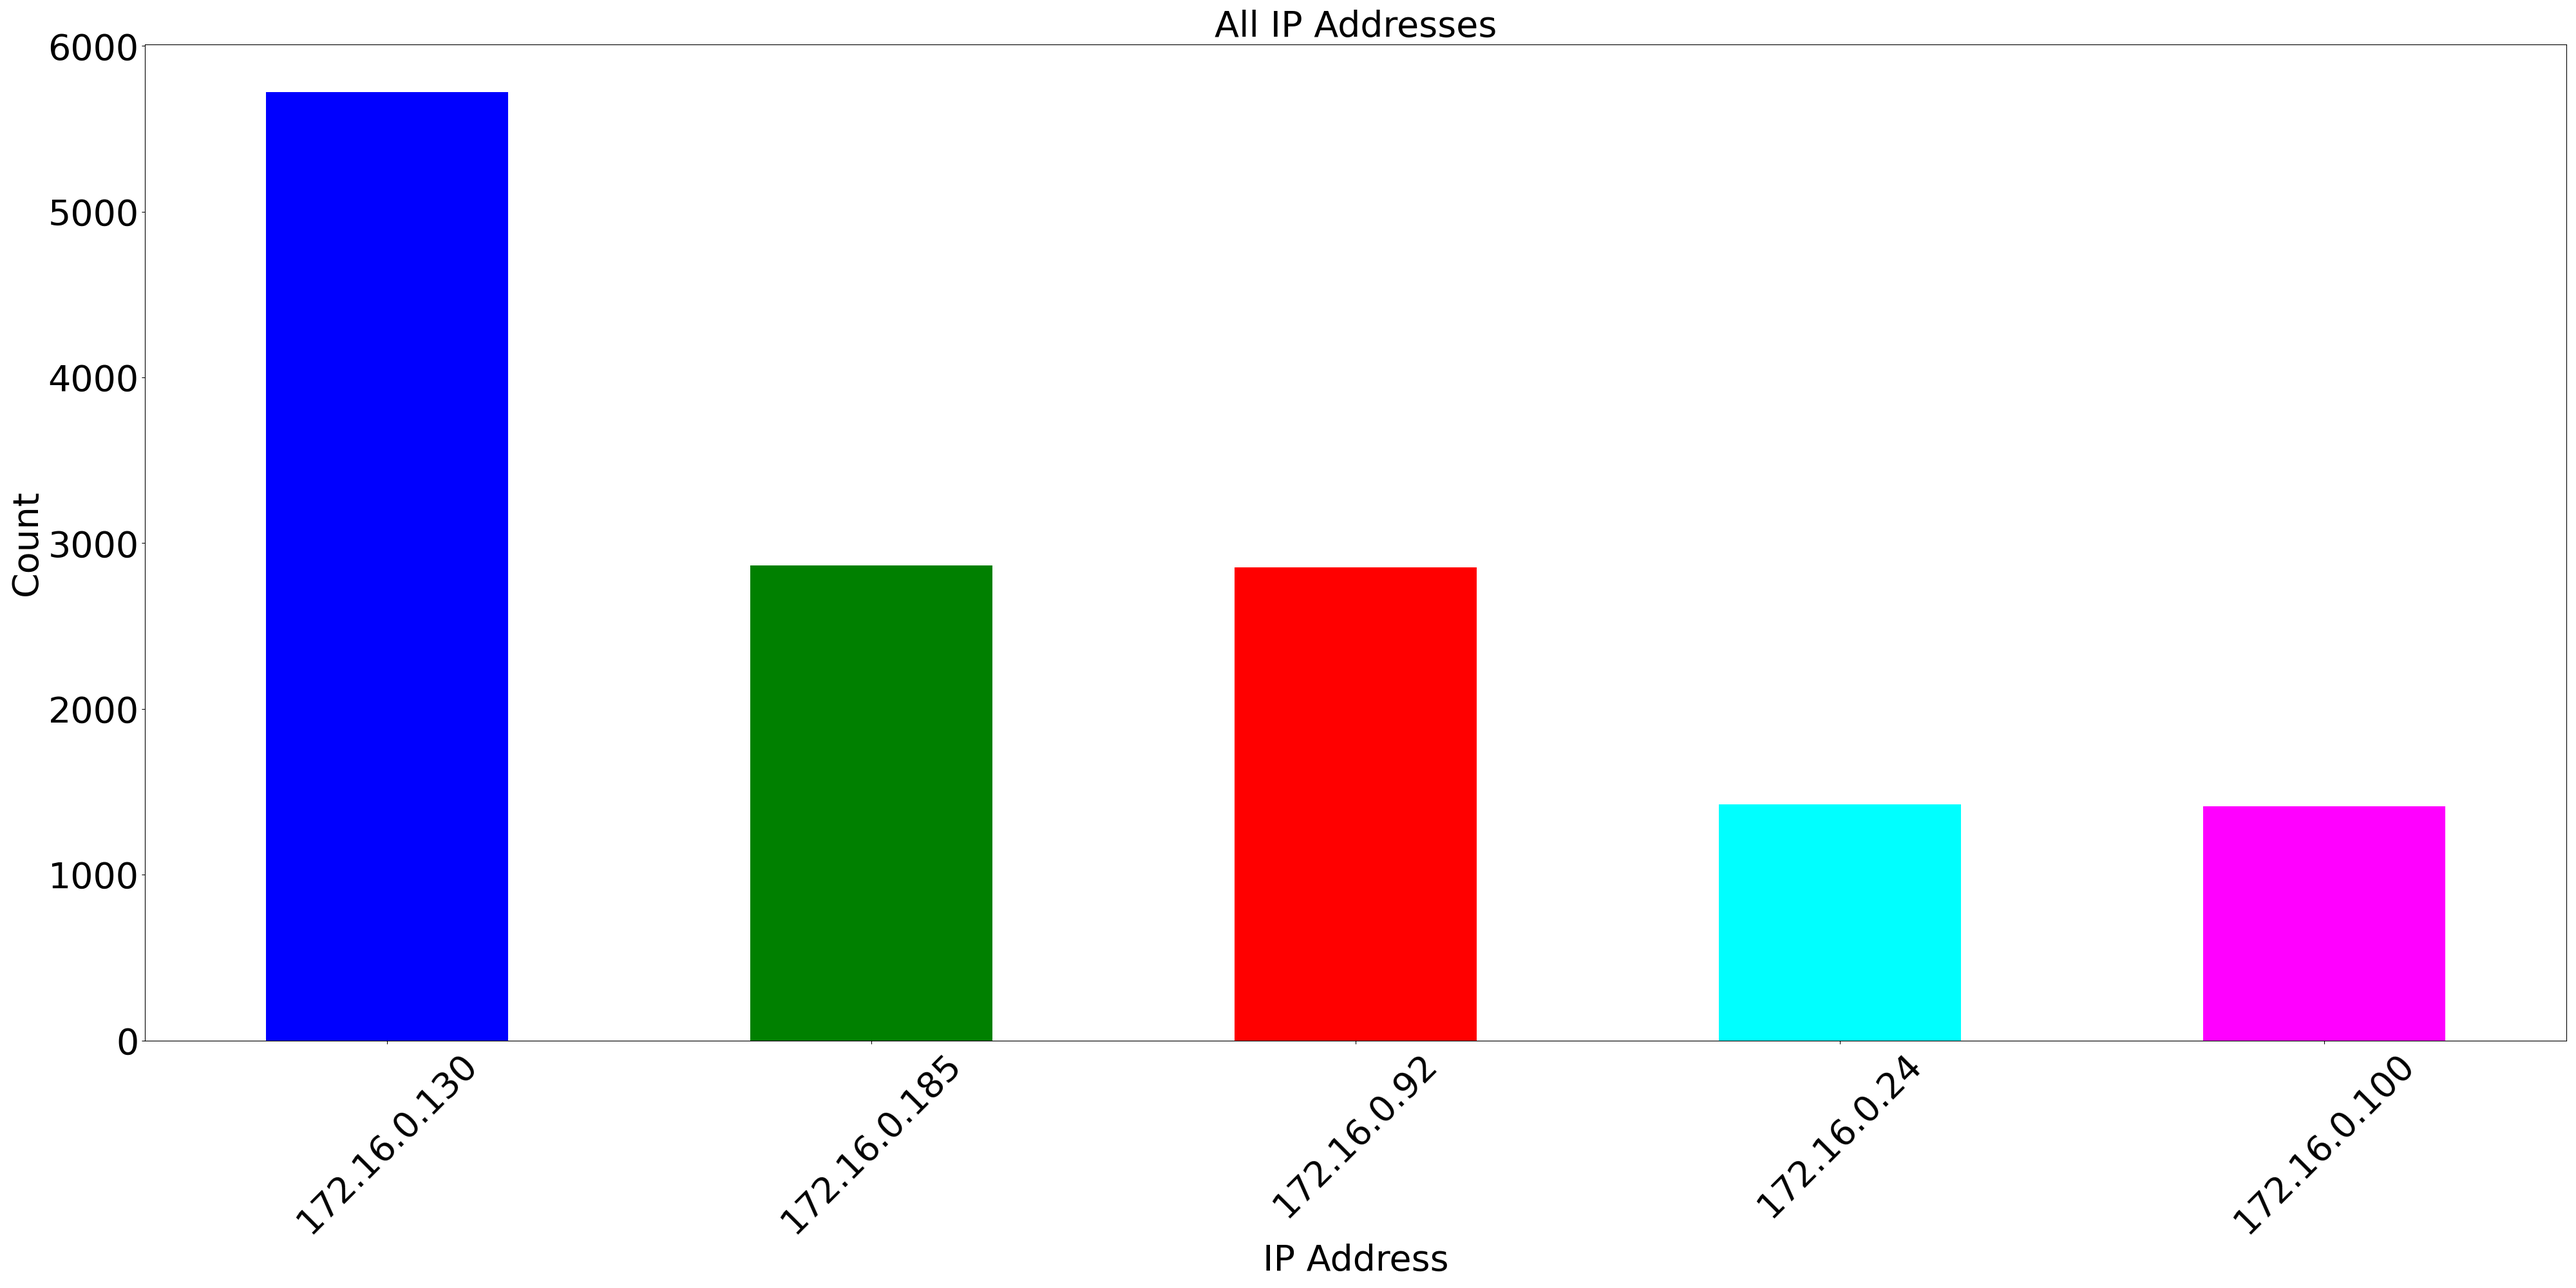
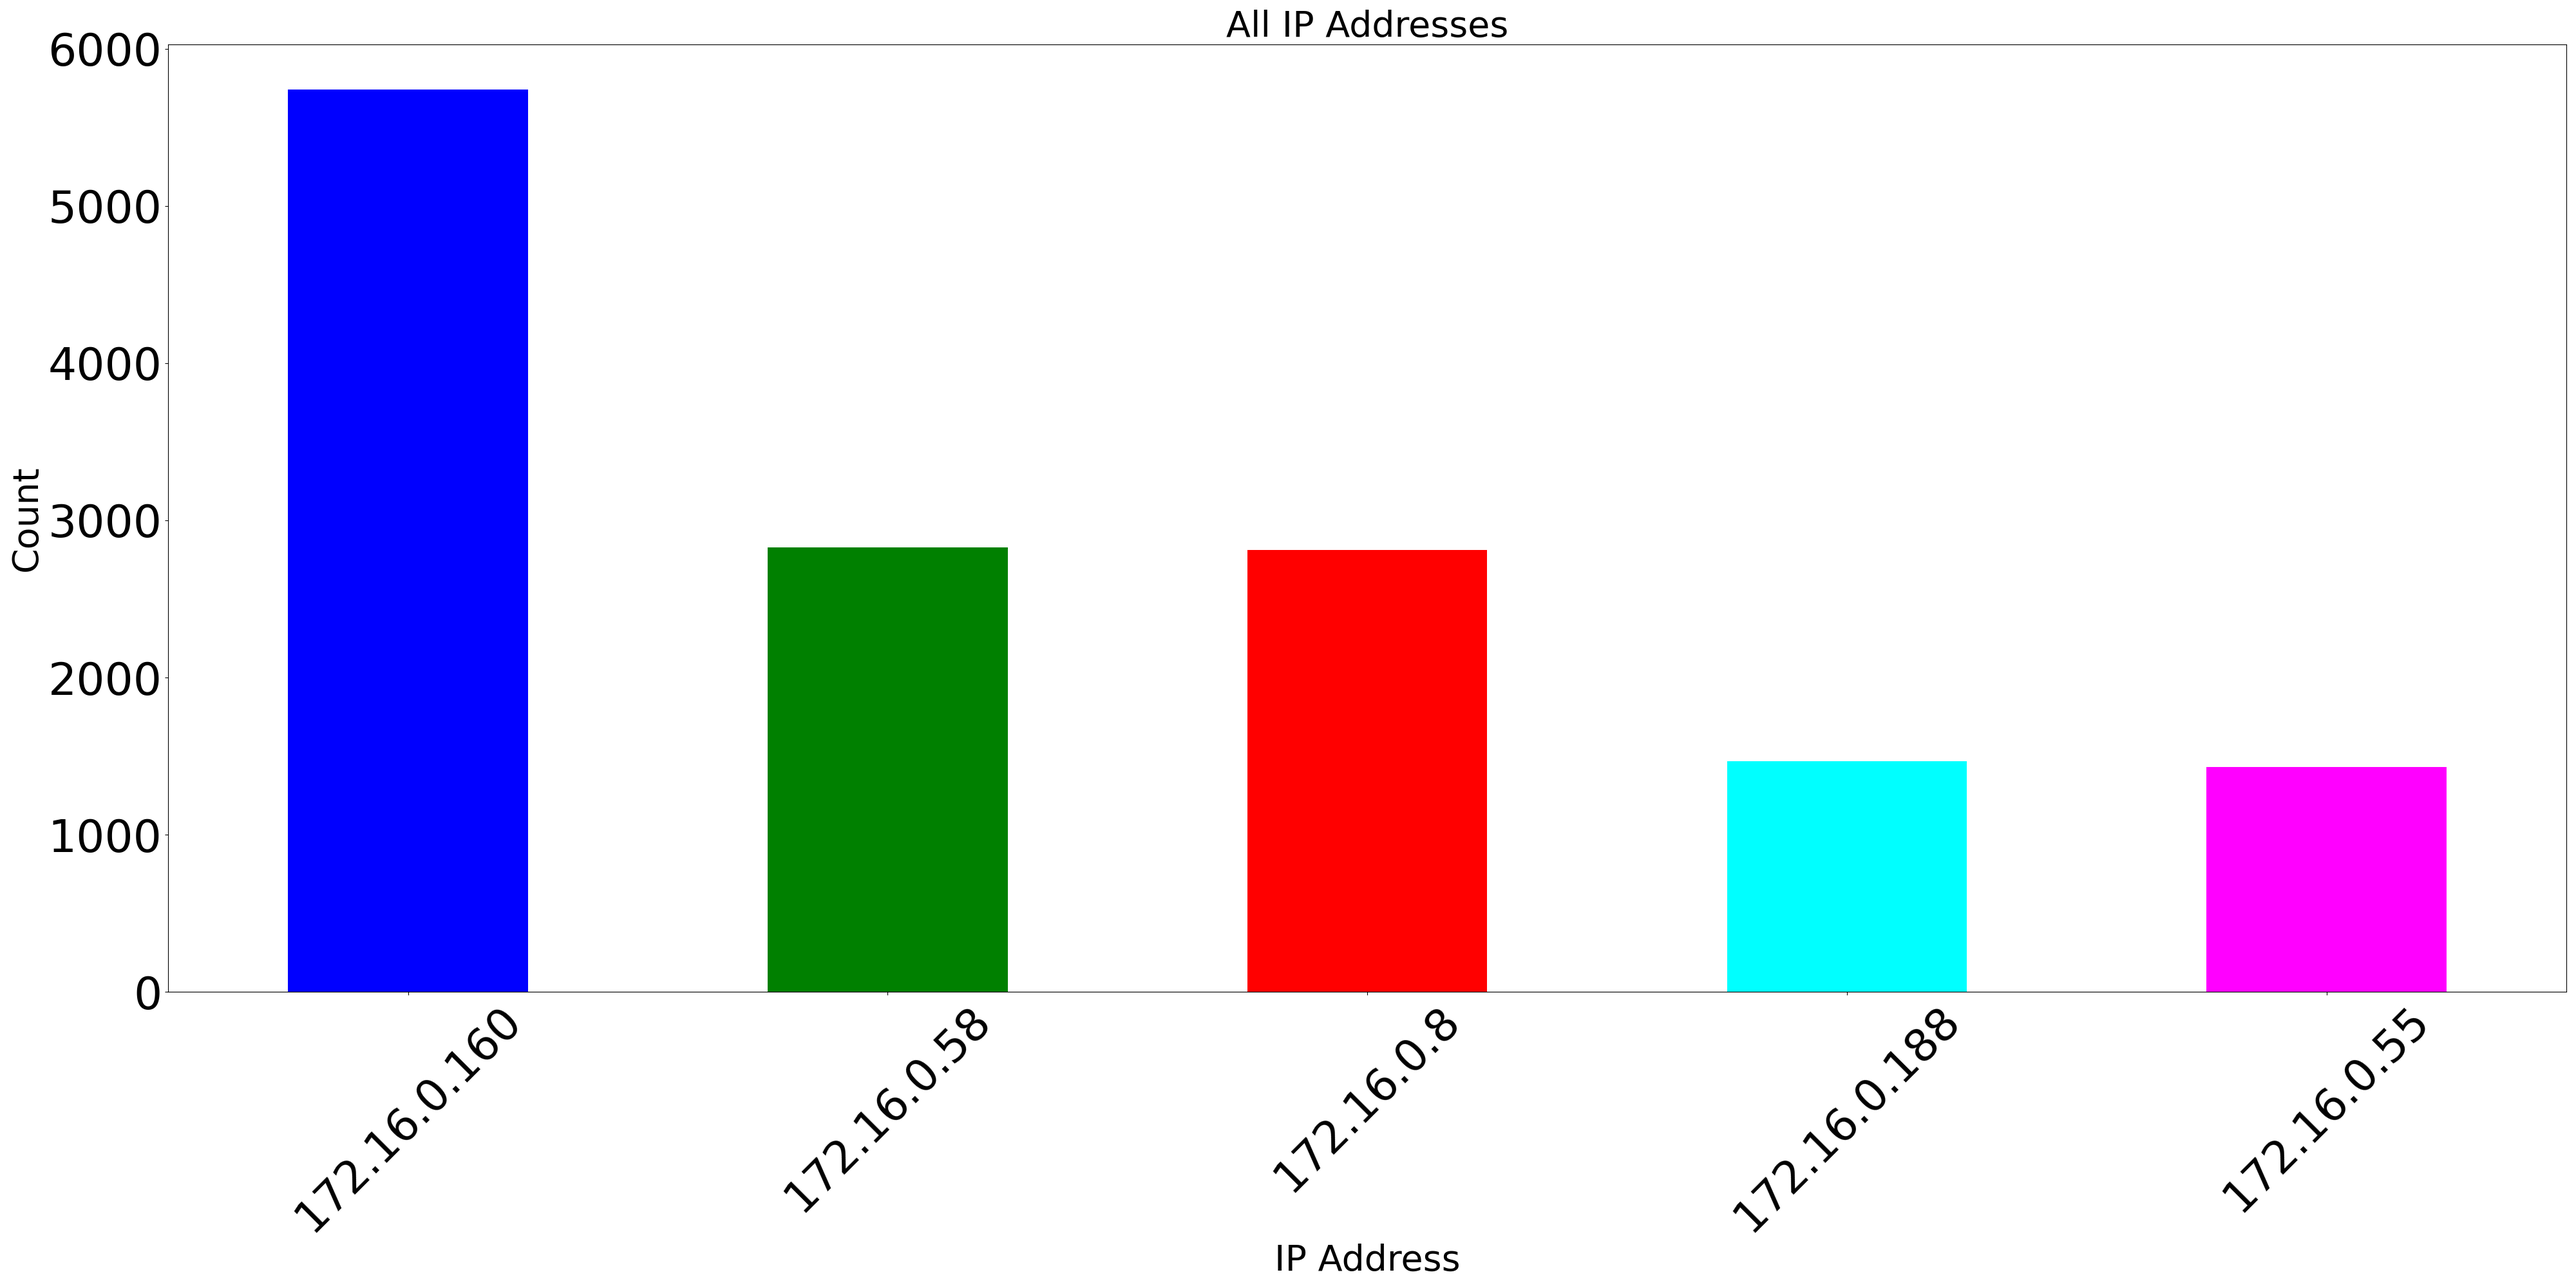
1

diff --git a/templates/about.html b/templates/about.html
@@ -216,21 +216,21 @@
       <img src="{{ url_for('static', filename='images/diamaris.png') }}" alt="Diamaris Gonzalez Rodriguez">
       <div class="member-info">
       <h3>Diamaris Gonzalez Rodriguez</h3>
-      <p>Frontend Developer</p>
+      <p>Frontend Developer & Documentation</p>
       </div>
     </div>
     <div class="team-member">
       <img src="{{ url_for('static', filename='images/gadiel.png') }}" alt="Gadiel Valle Melendez">      
       <div class="member-info">
       <h3>Gadiel Valle Melendez</h3>
-      <p>Documentation Specialist</p>
+      <p>Frontend Developer & Documentation</p>
       </div>
     </div>
     <div class="team-member">
       <img src="{{ url_for('static', filename='images/luis.png') }}" alt="Luis Gomez Laureano" style="float:left; width:100px; height:100px; margin-right:20px;">
       <div class="member-info">
       <h3>Luis Gomez Laureano</h3>
-      <p>Frontend Developer</p>
+      <p>Frontend Developer & Documentation</p>
       </div>
     </div>
   </div>
@@ -255,17 +255,7 @@
       <a>2024 CyberSentry. All rights reserved.</a>
   </small>
 </footer>
-<!-- <script>
-  document.addEventListener('DOMContentLoaded', function() {
-      const username = localStorage.getItem('username');
-      if (username) {
-          const profileLink = document.querySelector('nav ul li a[href="login_page.html"]');
-          if (profileLink) {
-              profileLink.innerHTML = `<i class="fas fa-user"></i> ${username}`;
-          }
-      }
-  });
-  </script>   -->
+
   <script>
     document.addEventListener('DOMContentLoaded', function() {
       const username = localStorage.getItem('username');

diff --git a/templates/main_menu.html b/templates/main_menu.html
@@ -65,7 +65,7 @@
       color: #fdfefe;
       text-decoration: none;
     }
-     
+
     /* Style The Dropdown Button */
     .dropbtn {
       color: white;

diff --git a/ml_back_end.py b/ml_back_end.py
@@ -312,8 +312,8 @@ plt.figure(figsize=(40, 20))
 attacks_df["protocol_type"].value_counts().plot(kind='bar', label='protocol type', color=colors_protocol_type)
 plt.xlabel('Protocol Type', fontsize=40)
 plt.title('Protocol Type Counts', fontsize=40)
-plt.xticks(rotation=45, fontsize=40)
-plt.yticks(fontsize=40)  # Increase font size of y-axis labels
+plt.xticks(rotation=45, fontsize=50)
+plt.yticks(fontsize=50)  # Increase font size of y-axis labels
 plt.tight_layout()
 plt.savefig("static/images/protocol_type.png")
 plt.close()
@@ -323,8 +323,8 @@ plt.figure(figsize=(40, 20))
 attacks_df['service'].value_counts().head(10).plot(kind='bar', color=colors_service)
 plt.xlabel('Service', fontsize=40)
 plt.title('All Services', fontsize=40)
-plt.xticks(rotation=45, fontsize=40)
-plt.yticks(fontsize=40)  # Increase font size of y-axis labels
+plt.xticks(rotation=45, fontsize=50)
+plt.yticks(fontsize=50)  # Increase font size of y-axis labels
 plt.tight_layout()
 plt.savefig("static/images/service.png")
 plt.close()
@@ -334,8 +334,8 @@ plt.figure(figsize=(40, 20))
 attacks_df["flag"].value_counts().plot(kind='bar', color=colors_flag)
 plt.xlabel('Flag', fontsize=40)
 plt.title('Flag Counts', fontsize=40)
-plt.xticks(rotation=45, fontsize=40)
-plt.yticks(fontsize=40)  # Increase font size of y-axis labels
+plt.xticks(rotation=45, fontsize=50)
+plt.yticks(fontsize=50)  # Increase font size of y-axis labels
 plt.tight_layout()
 plt.savefig("static/images/flag.png")
 plt.close()
@@ -350,8 +350,8 @@ ip_address_counts.head(10).plot(kind='bar', color=['blue', 'green', 'red', 'cyan
 plt.xlabel('IP Address', fontsize=40)
 plt.ylabel('Count', fontsize=40)  # Assuming you want to label the y-axis as well
 plt.title('All IP Addresses', fontsize=40)
-plt.xticks(rotation=45, fontsize=40)  # Rotate x-axis labels to 45 degrees and increase font size
-plt.yticks(fontsize=40)  # Increase font size of y-axis labels
+plt.xticks(rotation=45, fontsize=50)  # Rotate x-axis labels to 45 degrees and increase font size
+plt.yticks(fontsize=50)  # Increase font size of y-axis labels
 plt.tight_layout()
 plt.savefig("static/images/ip_address_counts.png")
 plt.close()
